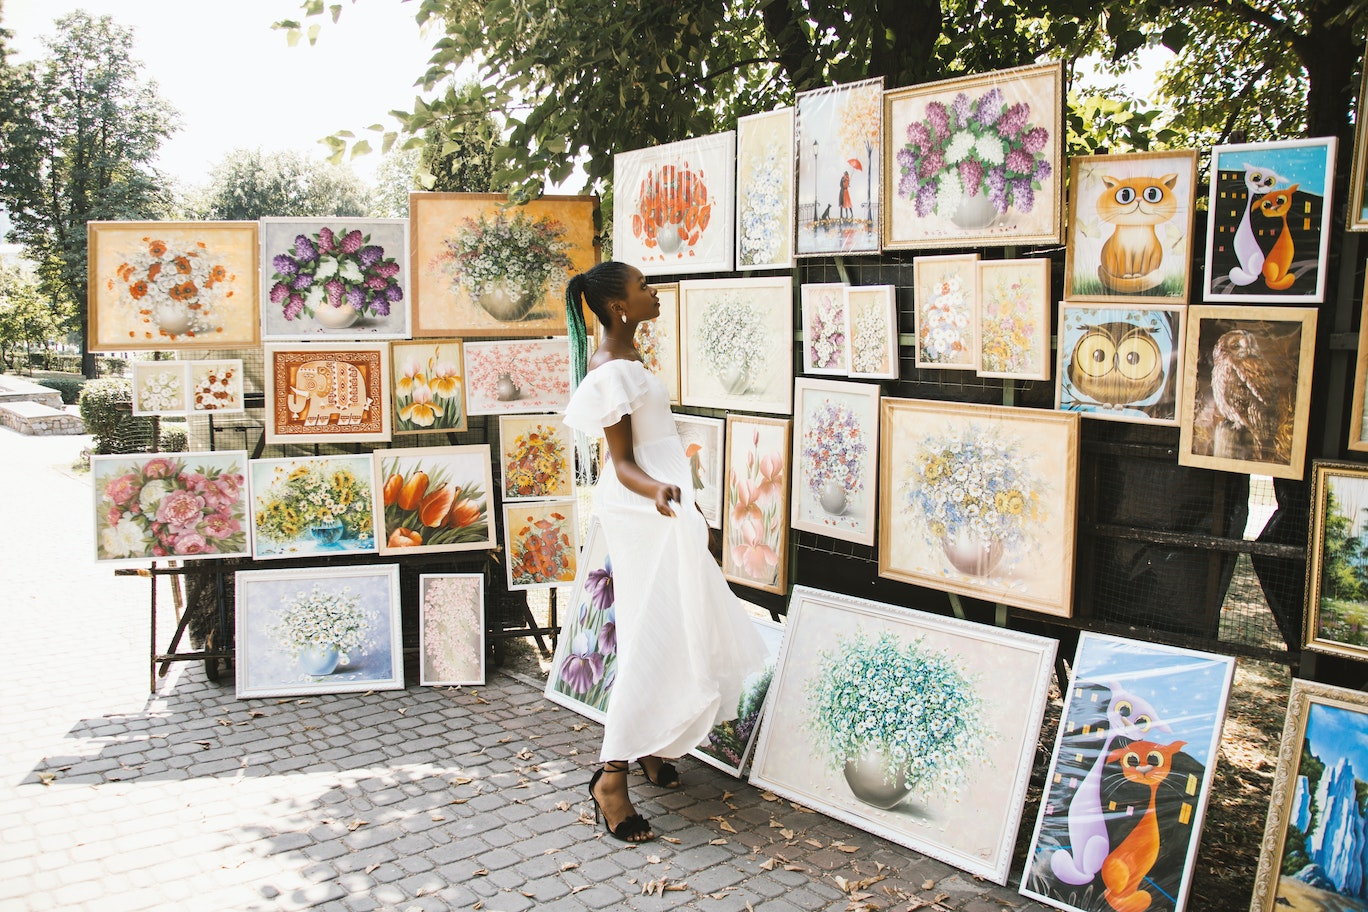
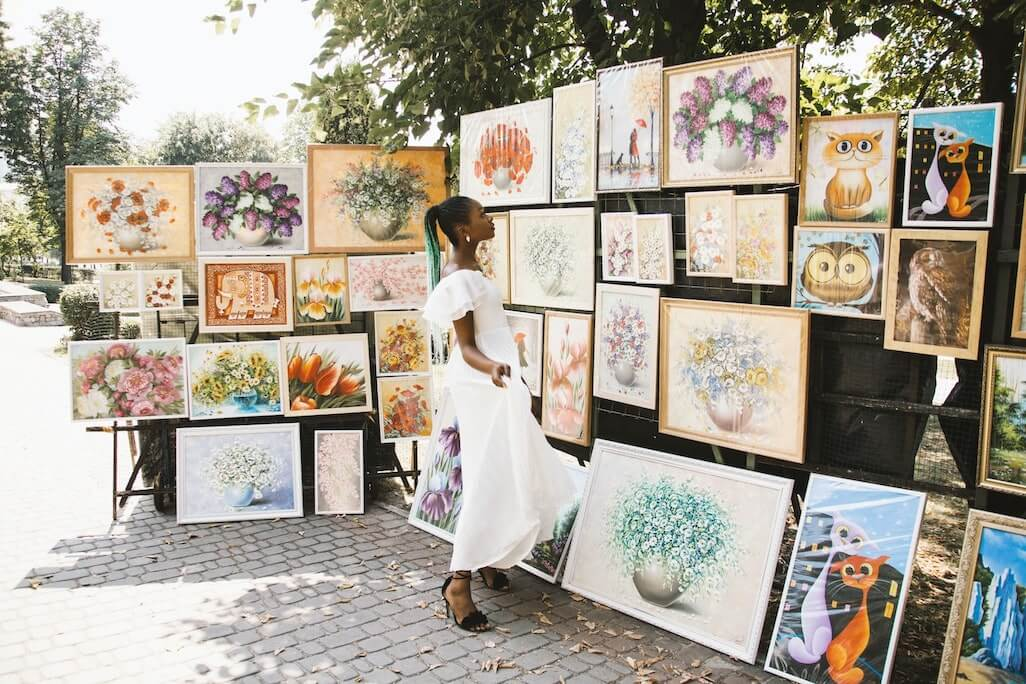
improve image size to speed up loading time

diff --git a/README.md b/README.md
@@ -150,7 +150,19 @@ Add 'badges' to show which art pieces have been added recently.
 
 ### Validator Testing 
 
+
+### WAVE Web Accessibility Evaluation Tool
+
+- 'Home' link removed from menu as it was flagged as redundant because the logo is a link to index.html.
+- Correct use of h1, h2, h3, ... headings.
+- Fixed contrast issue on hover over links in footer.
+
+
 ### Unfixed Bugs
+
+- 1 alert using WAVE accessability tool was a redundant link in footer to the contact page, however this link goes together with a call to action for commission pieces so I decided to keep it in the footer for the ease of users wanting to get in touch.
+
+
 
 ## Deployment
 ---
@@ -196,6 +208,6 @@ To deploy the website from the repository onto Github Pages the following steps 
     - Pexels was used for images on about.html and background image on shipping.html and contact.html
     - Credits: 
         - Artist portrait, about.html; Photo by Stefan Stefancik from Pexels.
-        - Art Galleries, about.html; First photo by furkanfdemir from Pexels, Second photo by Erik Mclean from Pexels, Third photo by Rachel Claire from Pexels, Last photo by Godisable Jacob from Pexels.
+        - Art Galleries, about.html; Background photo by Markus Spiske from Pexels, first photo by furkanfdemir from Pexels, second photo by Erik Mclean from Pexels, third photo by Rachel Claire from Pexels, last photo by Godisable Jacob from Pexels.
         - Market Photo, about.html: Photo by Gabriel Peter from Pexels.
         - Background photo on contact.html and shipping.html: Photo by Tara Winstead from Pexels.
